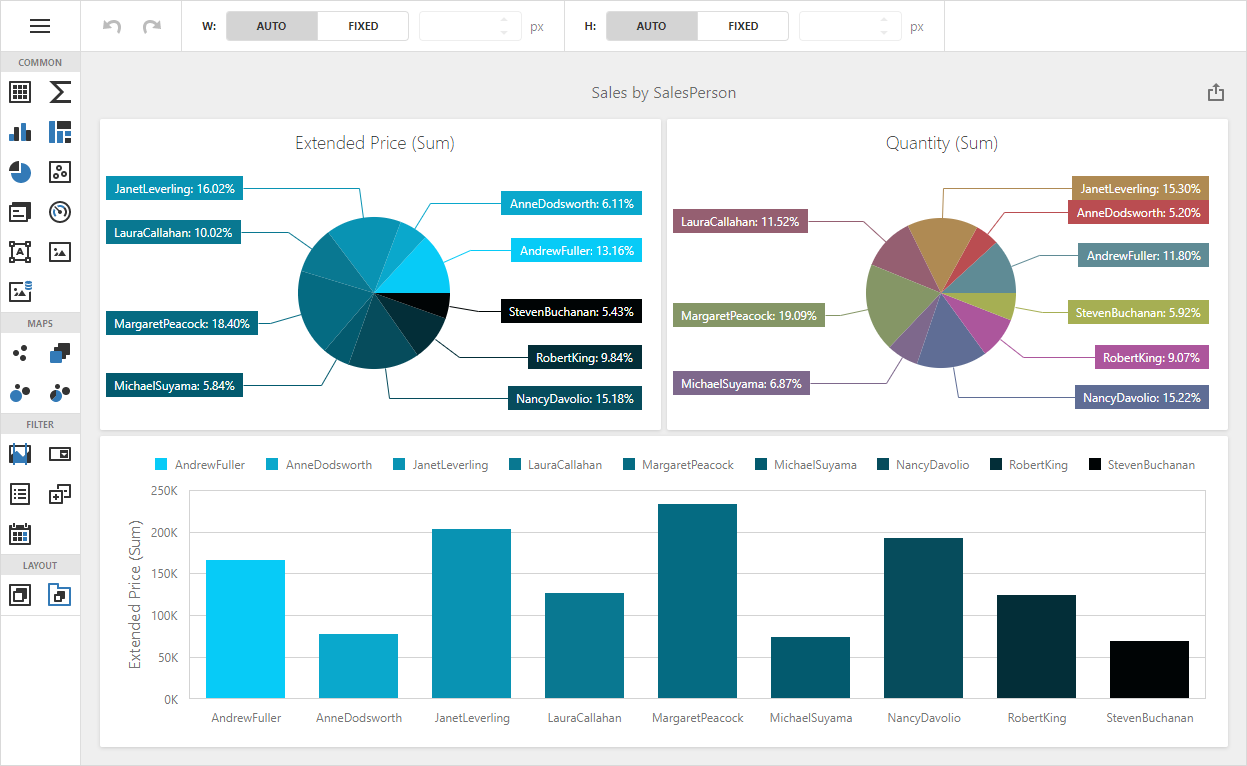
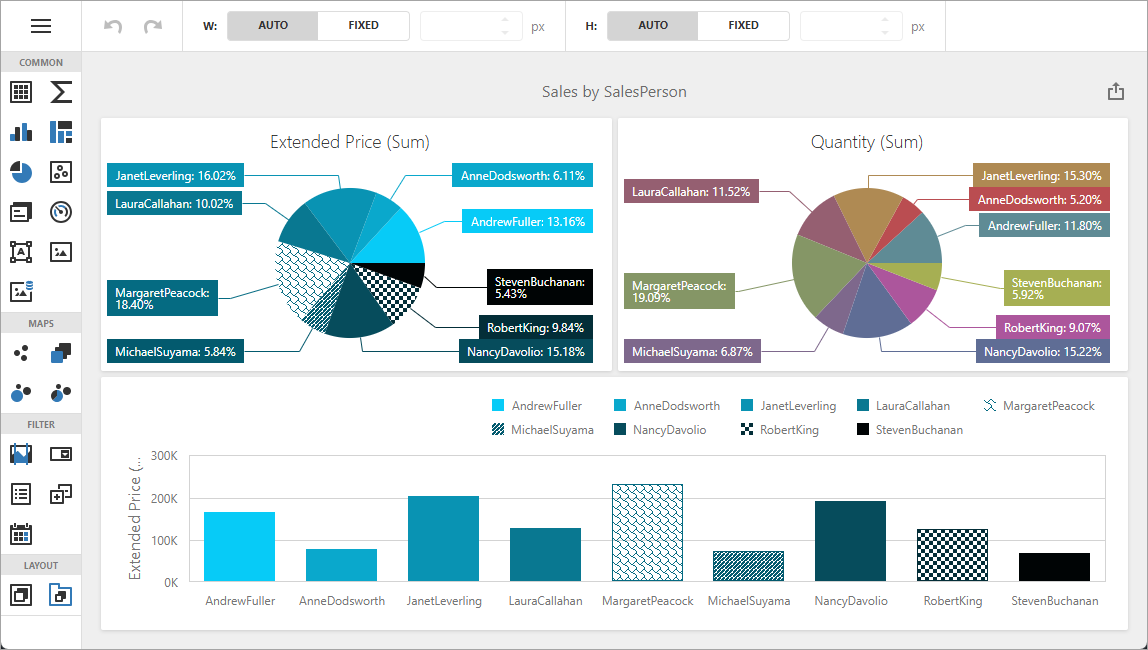
update example

diff --git a/CS/WebDashboardCustomColorPalettes/Program.cs b/CS/WebDashboardCustomColorPalettes/Program.cs
@@ -28,19 +28,18 @@ void Default_CustomPalette(object sender, CustomPaletteWebEventArgs e) {
     if (e.DashboardId == "SalesByCategory") {
 
         // Create a new custom palette.
-        List<Color> customColors = new List<Color>();
-        customColors.Add(Color.LightBlue);
-        customColors.Add(Color.Aquamarine);
-        customColors.Add(Color.SkyBlue);
-        customColors.Add(Color.LightCoral);
-        customColors.Add(Color.Tomato);
-        customColors.Add(Color.IndianRed);
-        customColors.Add(Color.Violet);
-        customColors.Add(Color.Plum);
-        customColors.Add(Color.MediumOrchid);
-
+        List<DashboardPaletteItem> paletteItems = new List<DashboardPaletteItem>();
+        paletteItems.Add(new DashboardPaletteItem(Color.LightBlue));
+        paletteItems.Add(new DashboardPaletteItem(Color.Aquamarine));
+        paletteItems.Add(new DashboardPaletteItem(Color.SkyBlue,DevExpress.Drawing.DXHatchStyle.DiagonalCross));
+        paletteItems.Add(new DashboardPaletteItem(Color.LightCoral));
+        paletteItems.Add(new DashboardPaletteItem(Color.Tomato));
+        paletteItems.Add(new DashboardPaletteItem(Color.IndianRed));
+        paletteItems.Add(new DashboardPaletteItem(Color.Violet, DevExpress.Drawing.DXHatchStyle.Sphere, DevExpress.Drawing.DXDashStyle.DashDotDot));
+        paletteItems.Add(new DashboardPaletteItem(Color.Plum));
+        paletteItems.Add(new DashboardPaletteItem(Color.MediumOrchid));
         // Assign a newly created custom palette to the Web Dashboard.
-        e.Palette = new DashboardPalette(customColors);
+        e.Palette = new DashboardPalette(paletteItems);
     }
 }
 
@@ -56,7 +55,7 @@ app.UseHttpsRedirection();
 app.UseStaticFiles();
 
 app.UseDevExpressControls();
-EndpointRouteBuilderExtension.MapDashboardRoute(app, "dashboardControl", "DefaultDashboard");
+app.MapDashboardRoute("dashboardControl", "DefaultDashboard");
 
 app.UseRouting();
 
